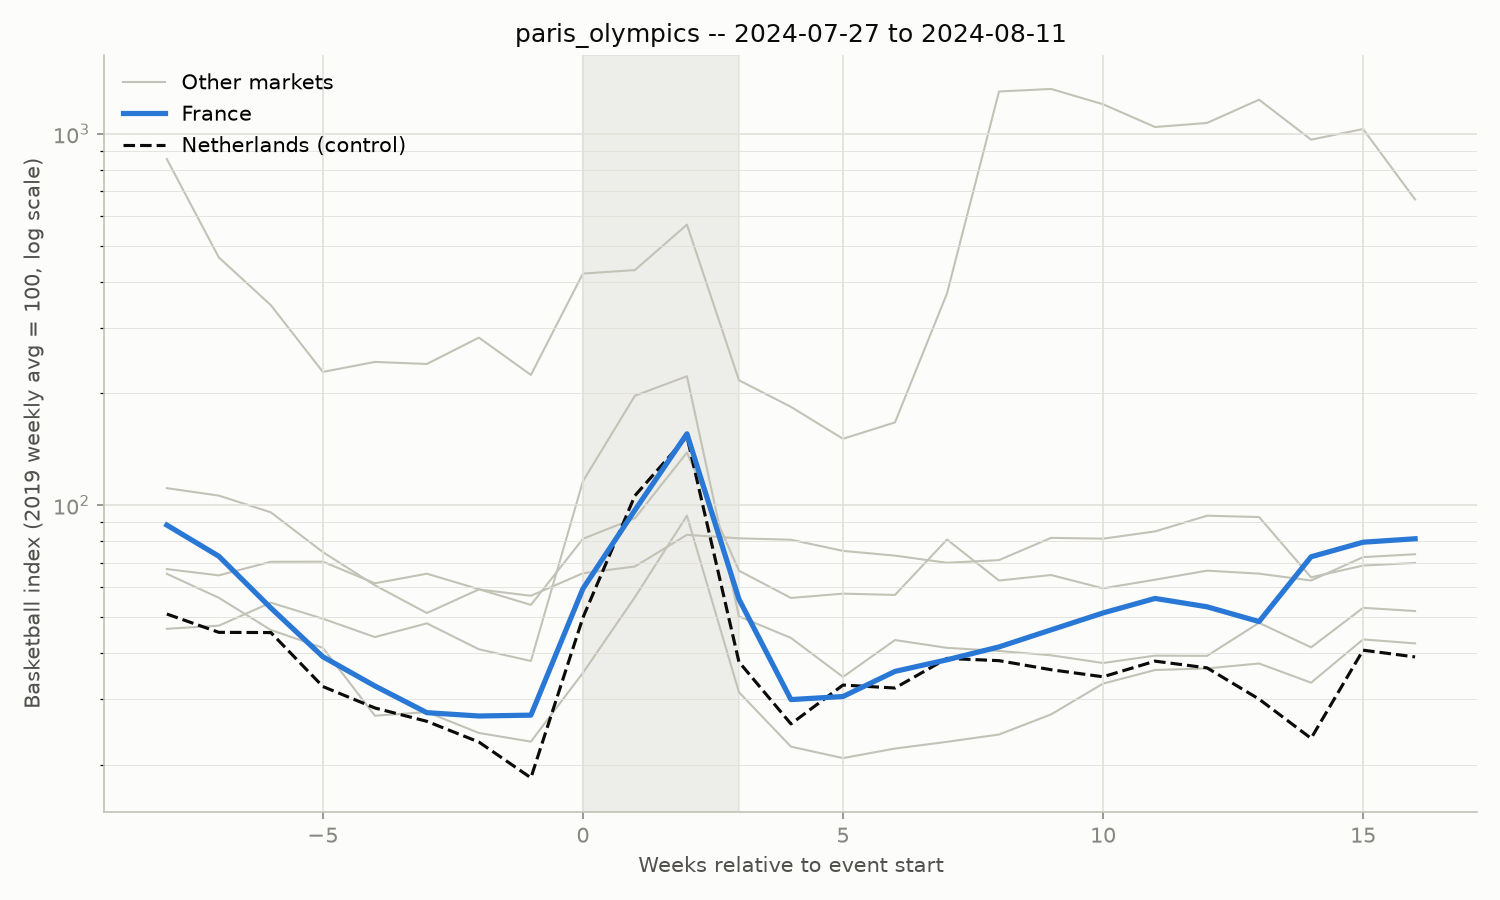
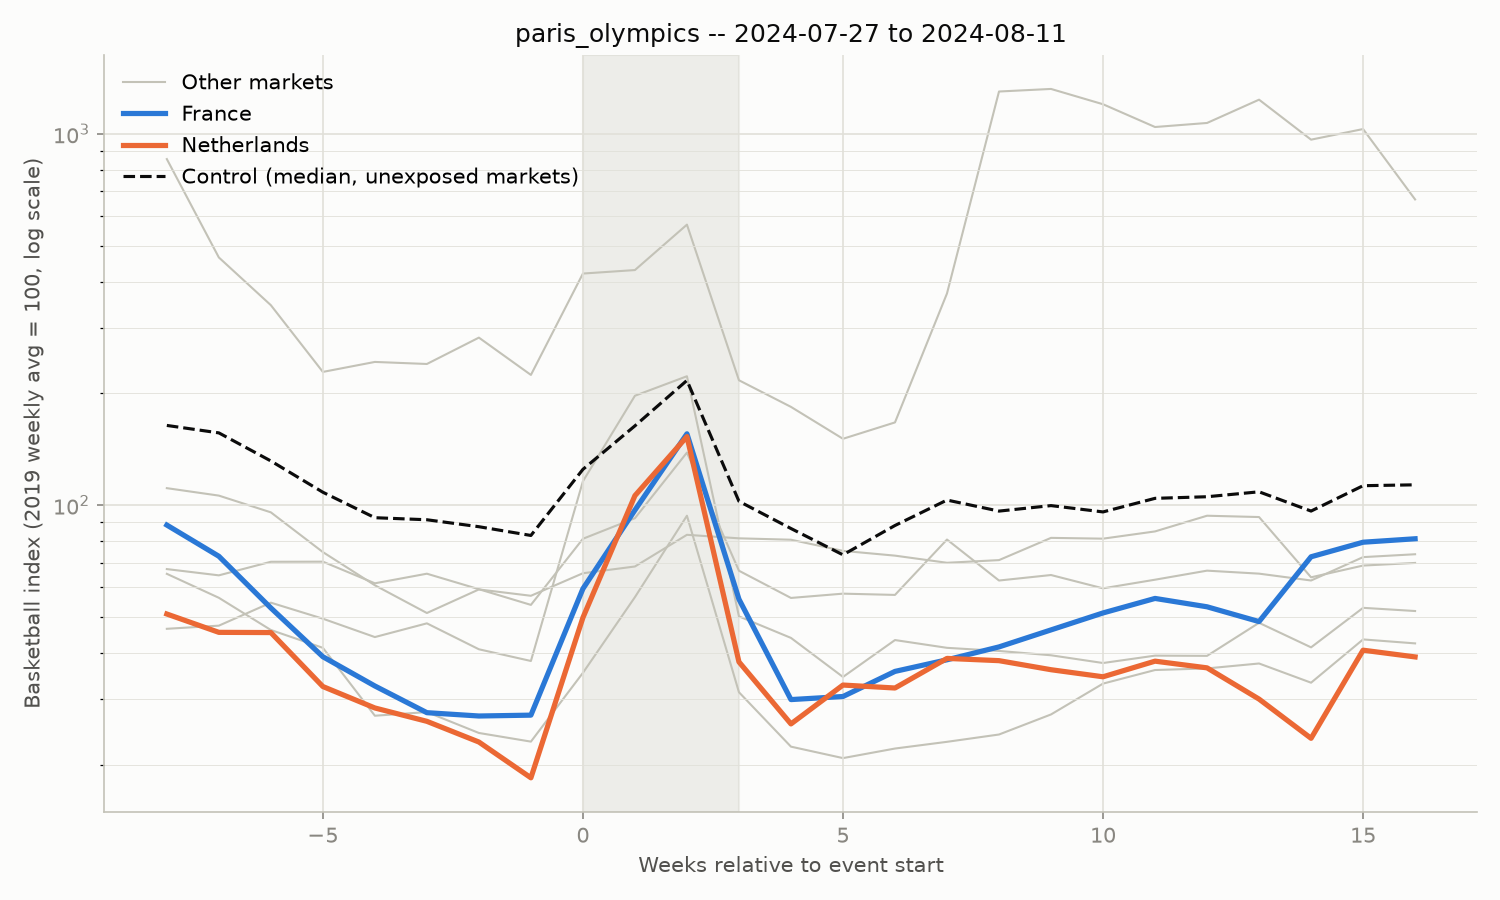
Median baseline, per-event multi-market control
Baseline switches mean -> median of the 8 pre-event weeks: the mean
was still getting pulled around by one-off spikes inside the window
(e.g. wembanyama_draft's France baseline, contaminated by a May 2023
domestic-league surge).

Control is no longer NL alone: it's the median uplift across whichever
markets are NOT exposed to a given event, computed per topic. NL is
now itself marked exposed for the Paris Olympics (it won men's 3x3
gold on 2024-08-05), so it drops out of its own control group for
that event -- the old NL-only numbers are kept as net_peak_vs_nl and
net_persistence_vs_nl for comparison. Charts now show this aggregate
control as the dashed black line instead of NL's raw index, and both
exposed markets render bold when an event has two (Olympics: FR + NL).

wembanyama_draft's peak_uplift for France is still negative (-44.2%,
was -48.8% under the mean) -- median only partly offsets the May 2023
spike since it occupies more than half the 8-week baseline window.

Logged the baseline/control changes; updated CLAUDE.md's control and
baseline lines accordingly.

diff --git a/src/analogs.py b/src/analogs.py
@@ -22,13 +22,14 @@ BASELINE_WEEKS = 8
 PEAK_WINDOW_EXTRA_WEEKS = 4
 HALF_LIFE_MAX_WEEKS = 26
 PERSISTENCE_WEEKS = 12
-CONTROL_COUNTRY, CONTROL_TOPIC = "Netherlands", "basketball"
+NL_COUNTRY, NL_TOPIC = "Netherlands", "basketball"  # secondary NL-only check, kept for comparison
 
 COUNTRIES = ["UK", "France", "Spain", "Italy", "Germany", "Turkey", "Netherlands"]
 TOPICS = ["basketball", "nba"]
 
 CHART_WEEKS_BEFORE = 8
 CHART_WEEKS_AFTER = 16
+EXPOSED_COLORS = ["#2a78d6", "#eb6834"]
 
 
 @dataclass
@@ -38,20 +39,21 @@ class Event:
     group: str
     event_start: date
     event_end: date
-    exposed_country: str
+    exposed_countries: tuple[str, ...]
 
 
 # T2's tournament start date is verified: the 2023 FIBA Basketball World Cup ran
 # 2023-08-25 to 2023-09-10 (confirmed via web search against Wikipedia/FIBA), which
 # matches the fallback date given in the brief -- not left UNVERIFIED.
+# T1: NL counts as exposed too -- it won men's 3x3 Olympic gold on 2024-08-05.
 EVENTS = [
-    Event("N1", "wembanyama_draft", "nba_event", date(2023, 6, 22), date(2023, 6, 22), "France"),
-    Event("N2", "nba_paris_2025", "nba_event", date(2025, 1, 23), date(2025, 1, 25), "France"),
-    Event("N3", "nba_berlin_2026", "nba_event", date(2026, 1, 15), date(2026, 1, 15), "Germany"),
-    Event("N4", "nba_london_2026", "nba_event", date(2026, 1, 18), date(2026, 1, 18), "UK"),
-    Event("T1", "paris_olympics", "national_team", date(2024, 7, 27), date(2024, 8, 11), "France"),
-    Event("T2", "fiba_wc_2023", "national_team", date(2023, 8, 25), date(2023, 9, 10), "Germany"),
-    Event("T3", "eurobasket_2025", "national_team", date(2025, 8, 27), date(2025, 9, 14), "Turkey"),
+    Event("N1", "wembanyama_draft", "nba_event", date(2023, 6, 22), date(2023, 6, 22), ("France",)),
+    Event("N2", "nba_paris_2025", "nba_event", date(2025, 1, 23), date(2025, 1, 25), ("France",)),
+    Event("N3", "nba_berlin_2026", "nba_event", date(2026, 1, 15), date(2026, 1, 15), ("Germany",)),
+    Event("N4", "nba_london_2026", "nba_event", date(2026, 1, 18), date(2026, 1, 18), ("UK",)),
+    Event("T1", "paris_olympics", "national_team", date(2024, 7, 27), date(2024, 8, 11), ("France", "Netherlands")),
+    Event("T2", "fiba_wc_2023", "national_team", date(2023, 8, 25), date(2023, 9, 10), ("Germany",)),
+    Event("T3", "eurobasket_2025", "national_team", date(2025, 8, 27), date(2025, 9, 14), ("Turkey",)),
 ]
 
 
@@ -82,26 +84,49 @@ def safe_uplift(value: float | None, baseline: float | None) -> float:
 
 
 def compute_baseline(series: pd.DataFrame, event_week: pd.Timestamp) -> float:
-    """Mean index of the 8 full weeks before event_week, excluding incomplete weeks."""
+    """Median index of the 8 full weeks before event_week, excluding incomplete weeks."""
     baseline_weeks = [event_week - pd.Timedelta(weeks=i) for i in range(1, BASELINE_WEEKS + 1)]
     rows = series.reindex(baseline_weeks)
     complete = rows[~rows["incomplete"].fillna(True)]
     valid = complete["index"].dropna()
-    return valid.mean() if len(valid) else float("nan")
+    return valid.median() if len(valid) else float("nan")
+
+
+def unexposed_countries(event: Event) -> list[str]:
+    return [c for c in COUNTRIES if c not in event.exposed_countries]
+
+
+def control_uplift_at(
+    week: pd.Timestamp | None,
+    event: Event,
+    topic: str,
+    series_map: dict[str, pd.DataFrame],
+    baselines: dict[str, float],
+) -> float:
+    """Median uplift, at `week`, across markets NOT exposed to this event (same topic)."""
+    if week is None:
+        return float("nan")
+    values = [
+        safe_uplift(series_map[c]["index"].get(week), baselines[c])
+        for c in unexposed_countries(event)
+    ]
+    values = [v for v in values if pd.notna(v)]
+    return float(pd.Series(values).median()) if values else float("nan")
 
 
 def compute_row(
-    weekly: pd.DataFrame,
     event: Event,
     country: str,
     topic: str,
-    control_series: pd.DataFrame,
-    control_baseline: float,
+    series_map: dict[str, pd.DataFrame],
+    baselines: dict[str, float],
+    nl_series: pd.DataFrame,
+    nl_baseline: float,
 ) -> dict:
-    series = series_for(weekly, country, topic)
+    series = series_map[country]
+    baseline = baselines[country]
     event_week = week_start_of(event.event_start)
     end_week = week_start_of(event.event_end)
-    baseline = compute_baseline(series, event_week)
 
     peak_end_week = end_week + pd.Timedelta(weeks=PEAK_WINDOW_EXTRA_WEEKS)
     window_weeks = pd.date_range(event_week, peak_end_week, freq="7D")
@@ -129,18 +154,21 @@ def compute_row(
     persistence_week = end_week + pd.Timedelta(weeks=PERSISTENCE_WEEKS)
     persistence_12w = safe_uplift(series["index"].get(persistence_week), baseline)
 
-    def control_uplift_at(week: pd.Timestamp | None) -> float:
+    control_peak = control_uplift_at(peak_week, event, topic, series_map, baselines)
+    control_persist = control_uplift_at(persistence_week, event, topic, series_map, baselines)
+    net_peak_uplift = peak_uplift - control_peak if pd.notna(peak_uplift) else float("nan")
+    net_persistence_12w = (
+        persistence_12w - control_persist if pd.notna(persistence_12w) else float("nan")
+    )
+
+    def nl_uplift_at(week: pd.Timestamp | None) -> float:
         if week is None:
             return float("nan")
-        return safe_uplift(control_series["index"].get(week), control_baseline)
+        return safe_uplift(nl_series["index"].get(week), nl_baseline)
 
-    net_peak_uplift = (
-        peak_uplift - control_uplift_at(peak_week) if pd.notna(peak_uplift) else float("nan")
-    )
-    net_persistence_12w = (
-        persistence_12w - control_uplift_at(persistence_week)
-        if pd.notna(persistence_12w)
-        else float("nan")
+    net_peak_vs_nl = peak_uplift - nl_uplift_at(peak_week) if pd.notna(peak_uplift) else float("nan")
+    net_persistence_vs_nl = (
+        persistence_12w - nl_uplift_at(persistence_week) if pd.notna(persistence_12w) else float("nan")
     )
 
     return {
@@ -149,25 +177,42 @@ def compute_row(
         "group": event.group,
         "country": country,
         "topic": topic,
-        "exposed": country == event.exposed_country,
+        "exposed": country in event.exposed_countries,
         "baseline": baseline,
         "peak_uplift": peak_uplift,
         "half_life_weeks": half_life_weeks,
         "persistence_12w": persistence_12w,
         "net_peak_uplift": net_peak_uplift,
         "net_persistence_12w": net_persistence_12w,
+        "net_peak_vs_nl": net_peak_vs_nl,
+        "net_persistence_vs_nl": net_persistence_vs_nl,
     }
 
 
 def build_table(weekly: pd.DataFrame) -> pd.DataFrame:
+    series_by_topic = {topic: {c: series_for(weekly, c, topic) for c in COUNTRIES} for topic in TOPICS}
+    nl_full_series = series_for(weekly, NL_COUNTRY, NL_TOPIC)
+
     rows = []
     for event in EVENTS:
-        control_series = series_for(weekly, CONTROL_COUNTRY, CONTROL_TOPIC)
-        control_baseline = compute_baseline(control_series, week_start_of(event.event_start))
-        for country in COUNTRIES:
-            for topic in TOPICS:
+        event_week = week_start_of(event.event_start)
+        baselines_by_topic = {
+            topic: {c: compute_baseline(series_by_topic[topic][c], event_week) for c in COUNTRIES}
+            for topic in TOPICS
+        }
+        nl_baseline = compute_baseline(nl_full_series, event_week)
+        for topic in TOPICS:
+            for country in COUNTRIES:
                 rows.append(
-                    compute_row(weekly, event, country, topic, control_series, control_baseline)
+                    compute_row(
+                        event,
+                        country,
+                        topic,
+                        series_by_topic[topic],
+                        baselines_by_topic[topic],
+                        nl_full_series,
+                        nl_baseline,
+                    )
                 )
     return pd.DataFrame(rows)
 
@@ -180,6 +225,9 @@ def plot_event_chart(weekly: pd.DataFrame, event: Event, out_path: Path) -> None
     weeks = pd.date_range(start_window, end_window, freq="7D")
     offsets = [(wk - event_week).days / 7 for wk in weeks]
 
+    series_map = {c: series_for(weekly, c, "basketball") for c in COUNTRIES}
+    baselines = {c: compute_baseline(series_map[c], event_week) for c in COUNTRIES}
+
     fig, ax = plt.subplots(figsize=(10, 6), facecolor="#fcfcfb")
     ax.set_facecolor("#fcfcfb")
 
@@ -187,22 +235,31 @@ def plot_event_chart(weekly: pd.DataFrame, event: Event, out_path: Path) -> None
     ax.axvspan(0, end_offset + 1, color="#c3c2b7", alpha=0.25, zorder=0)
 
     other_line = None
+    color_i = 0
     for country in COUNTRIES:
-        series = series_for(weekly, country, "basketball")
-        values = [series["index"].get(wk) for wk in weeks]
-        if country == event.exposed_country:
-            ax.plot(offsets, values, linewidth=2.5, color="#2a78d6", label=country, zorder=3)
-        elif country == "Netherlands":
-            ax.plot(
-                offsets, values, linewidth=1.5, color="#0b0b0b", linestyle="--",
-                label="Netherlands (control)", zorder=2,
-            )
+        values = [series_map[country]["index"].get(wk) for wk in weeks]
+        if country in event.exposed_countries:
+            color = EXPOSED_COLORS[color_i % len(EXPOSED_COLORS)]
+            color_i += 1
+            ax.plot(offsets, values, linewidth=2.5, color=color, label=country, zorder=3)
         else:
             (line,) = ax.plot(offsets, values, linewidth=1, color="#c3c2b7", zorder=1)
             other_line = other_line or line
 
     if other_line is not None:
         other_line.set_label("Other markets")
+
+    # Control: median uplift across unexposed markets, displayed as a synthetic
+    # index (100 x (1 + uplift)) so it sits on the same baseline=100 scale as
+    # every country's own index line.
+    control_display = [
+        100 * (1 + control_uplift_at(wk, event, "basketball", series_map, baselines))
+        for wk in weeks
+    ]
+    ax.plot(
+        offsets, control_display, linewidth=1.5, color="#0b0b0b", linestyle="--",
+        label="Control (median, unexposed markets)", zorder=2,
+    )
 
     date_label = (
         f"{event.event_start}" if event.event_start == event.event_end

diff --git a/CLAUDE.md b/CLAUDE.md
@@ -21,7 +21,8 @@ Main deliverable: a memo a non-technical reader can follow (recommendation first
 - Index: each series' 2019 average weekly views = 100.
 - Gaps: runs of 1-2 missing days filled with 0. Runs of 3+ left NULL, week flagged `incomplete` (it/nba, July 2026).
 - Outliers: daily views capped at 5x the trailing 8-week median. Capped days listed in `outputs/capped_days.csv`.
-- Control market: Netherlands, `nl/basketball` only (`use_as_control`). `nl/nba` is too small (median ~63 views/wk).
+- Baseline: median of 8 pre-event weeks.
+- Control: median uplift of all markets not exposed to the event (NL counts as exposed for the Paris Olympics). NL-only kept as a secondary check.
 - Turkey is kept (2019 baseline is stable, ~270 views/wk).
 - Jan 2020 is a confound (Kobe Bryant's death). Do not use it in baselines.
 

diff --git a/docs/decision_log.md b/docs/decision_log.md
@@ -17,3 +17,5 @@ Chronological record of key decisions made during this project, with rationale.
 | 2026-09-28 | Events split into NBA events (scenario inputs) and national-team events (ceiling); Olympics moved to national-team | Olympics is a national-team tournament; NL rose as much as FR |
 | 2026-09-28 | Exposed market fixed in advance per event | Avoids picking the market that happened to spike |
 | 2026-09-28 | Tournament baselines end before tournament start | Keeps build-up out of the baseline |
+| 2026-09-28 | Baseline = median of 8 pre-event weeks | Mean was distorted by a May 2023 FR domestic-league spike |
+| 2026-09-28 | Control = median of unexposed markets per event, not NL alone | NL had its own shocks (3x3 Olympic gold Aug 2024) |
